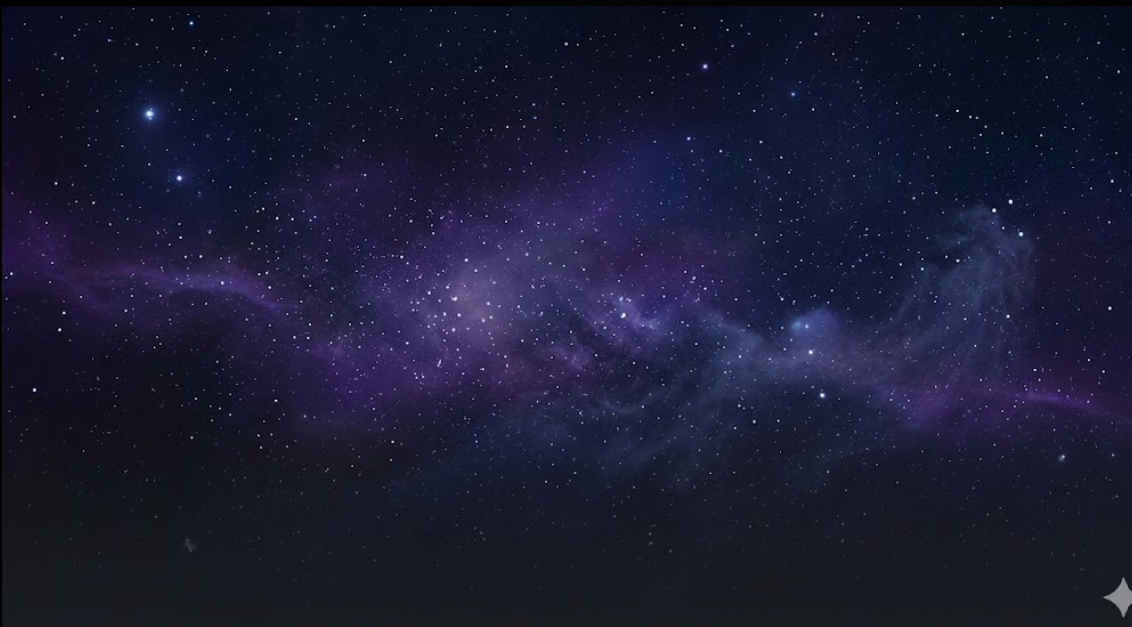
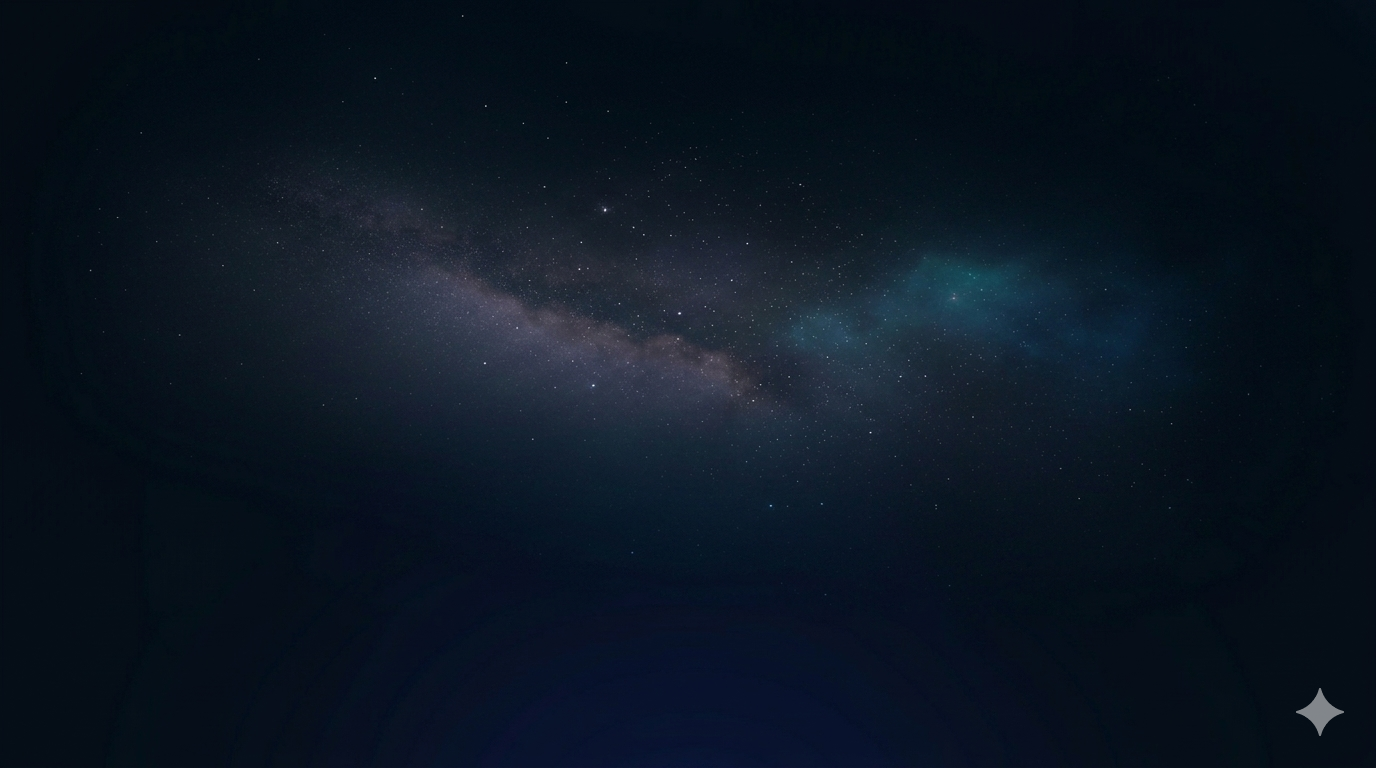
background all good

diff --git a/app/globals.css b/app/globals.css
@@ -9,12 +9,12 @@
     --background: 0 0% 100%;
     --foreground: 222.2 84% 4.9%;
     --site-bg-image: url('/images/bglight.png');
-    --site-bg-size: min(100vw, 1158px) auto;
-    --site-bg-filter: saturate(1.12) contrast(1.06) brightness(1.02);
+    --site-bg-size: min(100vw, 1376px) auto;
+    --site-bg-filter: none;
     --site-bg-overlay:
-      linear-gradient(180deg, hsl(0 0% 100% / 0.32), hsl(210 35% 96% / 0.5)),
-      radial-gradient(circle at 50% 8%, hsl(214 90% 86% / 0.08), transparent 38%),
-      radial-gradient(circle at 50% 10%, hsl(0 0% 100% / 0), hsl(0 0% 100% / 0.08) 72%, hsl(210 35% 94% / 0.36) 100%);
+      linear-gradient(180deg, hsl(0 0% 100% / 0.18), hsl(210 35% 96% / 0.34)),
+      radial-gradient(circle at 50% 8%, hsl(214 90% 86% / 0.04), transparent 38%),
+      radial-gradient(circle at 50% 10%, hsl(0 0% 100% / 0), hsl(0 0% 100% / 0.03) 72%, hsl(210 35% 94% / 0.22) 100%);
     --card: 0 0% 100% / 0.62;
     --card-foreground: 222.2 84% 4.9%;
     --popover: 0 0% 100% / 0.8;
@@ -41,12 +41,12 @@
     --background: 222.2 84% 4.9%;
     --foreground: 210 40% 98%;
     --site-bg-image: url('/images/bgdark.png');
-    --site-bg-size: min(100vw, 1140px) auto;
-    --site-bg-filter: saturate(1.28) contrast(1.12) brightness(1.05);
+    --site-bg-size: min(100vw, 1376px) auto;
+    --site-bg-filter: saturate(1.22) contrast(1.09) brightness(1.03);
     --site-bg-overlay:
-      linear-gradient(180deg, hsl(224 71% 6% / 0.18), hsl(222 84% 5% / 0.5)),
-      radial-gradient(circle at 50% 10%, hsl(197 85% 64% / 0.14), transparent 42%),
-      radial-gradient(circle at 50% 12%, hsl(224 71% 6% / 0), hsl(224 71% 6% / 0.08) 68%, hsl(222 84% 5% / 0.52) 100%);
+      linear-gradient(180deg, hsl(224 71% 6% / 0.14), hsl(222 84% 5% / 0.44)),
+      radial-gradient(circle at 50% 10%, hsl(197 85% 64% / 0.12), transparent 42%),
+      radial-gradient(circle at 50% 12%, hsl(224 71% 6% / 0), hsl(224 71% 6% / 0.06) 68%, hsl(222 84% 5% / 0.46) 100%);
     --card: 222 47% 11% / 0.56;
     --card-foreground: 210 40% 98%;
     --popover: 222 47% 11% / 0.82;
@@ -71,7 +71,7 @@
     --background: 240 21% 15%;
     --foreground: 226 64% 88%;
     --site-bg-image: url('/images/bgdark.png');
-    --site-bg-size: min(100vw, 1140px) auto;
+    --site-bg-size: min(100vw, 1376px) auto;
     --site-bg-filter: saturate(1.22) contrast(1.1) brightness(1.02);
     --site-bg-overlay:
       linear-gradient(180deg, hsl(240 21% 15% / 0.58), hsl(240 21% 15% / 0.84)),
@@ -100,7 +100,7 @@
     --background: 20 10% 13%;
     --foreground: 46 43% 82%;
     --site-bg-image: url('/images/bgdark.png');
-    --site-bg-size: min(100vw, 1140px) auto;
+    --site-bg-size: min(100vw, 1376px) auto;
     --site-bg-filter: saturate(1.22) contrast(1.1) brightness(1.02);
     --site-bg-overlay:
       linear-gradient(180deg, hsl(20 10% 13% / 0.62), hsl(20 10% 13% / 0.86)),
@@ -129,7 +129,7 @@
     --background: 220 13% 18%;
     --foreground: 220 14% 71%;
     --site-bg-image: url('/images/bgdark.png');
-    --site-bg-size: min(100vw, 1140px) auto;
+    --site-bg-size: min(100vw, 1376px) auto;
     --site-bg-filter: saturate(1.22) contrast(1.1) brightness(1.02);
     --site-bg-overlay:
       linear-gradient(180deg, hsl(220 13% 18% / 0.62), hsl(220 13% 18% / 0.86)),
@@ -158,7 +158,7 @@
     --background: 249 22% 12%;
     --foreground: 245 50% 91%;
     --site-bg-image: url('/images/bgdark.png');
-    --site-bg-size: min(100vw, 1140px) auto;
+    --site-bg-size: min(100vw, 1376px) auto;
     --site-bg-filter: saturate(1.22) contrast(1.1) brightness(1.02);
     --site-bg-overlay:
       linear-gradient(180deg, hsl(249 22% 12% / 0.62), hsl(249 22% 12% / 0.86)),
@@ -187,8 +187,8 @@
     --background: 210 33% 98%;
     --foreground: 213 27% 20%;
     --site-bg-image: url('/images/bglight.png');
-    --site-bg-size: min(100vw, 1180px) auto;
-    --site-bg-filter: saturate(1.12) contrast(1.06) brightness(1.02);
+    --site-bg-size: min(100vw, 1376px) auto;
+    --site-bg-filter: none;
     --site-bg-overlay:
       linear-gradient(180deg, hsl(210 33% 98% / 0.8), hsl(210 30% 95% / 0.94)),
       radial-gradient(circle at top, hsl(213 94% 38% / 0.12), transparent 40%);
@@ -216,8 +216,8 @@
     --background: 210 20% 98%;
     --foreground: 215 25% 15%;
     --site-bg-image: url('/images/bglight.png');
-    --site-bg-size: min(100vw, 1180px) auto;
-    --site-bg-filter: saturate(1.12) contrast(1.06) brightness(1.02);
+    --site-bg-size: min(100vw, 1376px) auto;
+    --site-bg-filter: none;
     --site-bg-overlay:
       linear-gradient(180deg, hsl(210 20% 98% / 0.82), hsl(210 22% 95% / 0.95)),
       radial-gradient(circle at top, hsl(215 25% 27% / 0.1), transparent 40%);
@@ -245,7 +245,7 @@
     --background: 210 50% 10%;
     --foreground: 200 50% 90%;
     --site-bg-image: url('/images/bgdark.png');
-    --site-bg-size: min(100vw, 1140px) auto;
+    --site-bg-size: min(100vw, 1376px) auto;
     --site-bg-filter: saturate(1.24) contrast(1.1) brightness(1.04);
     --site-bg-overlay:
       linear-gradient(180deg, hsl(210 50% 10% / 0.58), hsl(210 50% 10% / 0.84)),
@@ -375,15 +375,15 @@
 
 @layer components {
   .site-panel {
-    @apply rounded-2xl border border-border bg-card shadow-[0_18px_48px_rgba(15,23,42,0.10)] backdrop-blur-md;
+    @apply rounded-2xl border border-border bg-card shadow-[0_18px_48px_rgba(15,23,42,0.10)];
   }
 
   .site-panel-strong {
-    @apply rounded-2xl border border-border bg-popover shadow-[0_22px_64px_rgba(15,23,42,0.16)] backdrop-blur-xl;
+    @apply rounded-2xl border border-border bg-popover shadow-[0_22px_64px_rgba(15,23,42,0.16)];
   }
 
   .site-pill {
-    @apply rounded-full border border-border bg-card/90 backdrop-blur-md;
+    @apply rounded-full border border-border bg-card/90;
   }
 
   .site-divider {

diff --git a/components/theme-switcher.tsx b/components/theme-switcher.tsx
@@ -35,7 +35,7 @@ export function ThemeSwitcher() {
     <div ref={ref} className="relative">
       <button
         onClick={() => setOpen((o) => !o)}
-        className="flex items-center gap-2 rounded-md border border-border bg-card/90 px-3 py-2 text-sm font-medium backdrop-blur-md transition-colors hover:bg-accent hover:text-accent-foreground"
+        className="flex items-center gap-2 rounded-md border border-border bg-card/95 px-3 py-2 text-sm font-medium transition-colors hover:bg-accent hover:text-accent-foreground"
         aria-label="Switch theme"
       >
         <Palette className="h-4 w-4" />
@@ -44,7 +44,7 @@ export function ThemeSwitcher() {
       </button>
 
       {open && (
-        <div className="absolute right-0 top-full z-50 mt-2 w-52 overflow-hidden rounded-lg border border-border bg-popover shadow-[0_18px_48px_rgba(15,23,42,0.18)] backdrop-blur-xl">
+        <div className="absolute right-0 top-full z-50 mt-2 w-52 overflow-hidden rounded-lg border border-border bg-popover shadow-[0_18px_48px_rgba(15,23,42,0.18)]">
           {(["default", "dev", "professional"] as const).map((cat) => (
             <div key={cat}>
               <div className="px-3 py-1.5 text-xs font-semibold text-muted-foreground uppercase tracking-wider">

diff --git a/components/portfolio/filter-dropdown.tsx b/components/portfolio/filter-dropdown.tsx
@@ -55,7 +55,7 @@ export function FilterDropdown({ label, options, selected, onChange }: FilterDro
           className={`inline-flex items-center gap-2 rounded-lg border px-3.5 py-2 text-sm font-medium transition-colors ${
             hasSelection
               ? 'border-primary bg-primary/10 text-primary'
-              : 'border-border bg-card/90 text-muted-foreground backdrop-blur-md hover:border-primary/50 hover:text-foreground'
+              : 'border-border bg-card/95 text-muted-foreground hover:border-primary/50 hover:text-foreground'
           }`}
         >
           {hasSelection ? (
@@ -75,7 +75,7 @@ export function FilterDropdown({ label, options, selected, onChange }: FilterDro
         </button>
 
         {open && (
-          <div className="absolute right-0 top-full z-50 mt-1.5 min-w-[220px] rounded-xl border border-border bg-popover shadow-[0_18px_48px_rgba(15,23,42,0.18)] backdrop-blur-xl">
+          <div className="absolute right-0 top-full z-50 mt-1.5 min-w-[220px] rounded-xl border border-border bg-popover shadow-[0_18px_48px_rgba(15,23,42,0.18)]">
             <div className="p-1 max-h-64 overflow-y-auto">
               {options.map((option) => {
                 const isSelected = selected.includes(option)

diff --git a/app/business/pricing/page.tsx b/app/business/pricing/page.tsx
@@ -218,13 +218,13 @@ export default function BusinessPricingPage() {
           </Link>
           <Link
             href="/contact"
-            className="inline-flex items-center rounded-lg border border-border bg-card/90 px-5 py-3 text-sm font-medium text-foreground backdrop-blur-md transition-colors hover:border-primary hover:text-primary"
+            className="inline-flex items-center rounded-lg border border-border bg-card/95 px-5 py-3 text-sm font-medium text-foreground transition-colors hover:border-primary hover:text-primary"
           >
             Contact Me
           </Link>
           <Link
             href="/business"
-            className="inline-flex items-center rounded-lg border border-border bg-card/90 px-5 py-3 text-sm font-medium text-foreground backdrop-blur-md transition-colors hover:border-primary hover:text-primary"
+            className="inline-flex items-center rounded-lg border border-border bg-card/95 px-5 py-3 text-sm font-medium text-foreground transition-colors hover:border-primary hover:text-primary"
           >
             Back to My Business
           </Link>

diff --git a/app/pricing/page.tsx b/app/pricing/page.tsx
@@ -218,13 +218,13 @@ export default function PricingPage() {
           </Link>
           <Link
             href="/contact"
-            className="inline-flex items-center rounded-lg border border-border bg-card/90 px-5 py-3 text-sm font-medium text-foreground backdrop-blur-md transition-colors hover:border-primary hover:text-primary"
+            className="inline-flex items-center rounded-lg border border-border bg-card/95 px-5 py-3 text-sm font-medium text-foreground transition-colors hover:border-primary hover:text-primary"
           >
             Contact Me
           </Link>
           <Link
             href="/business"
-            className="inline-flex items-center rounded-lg border border-border bg-card/90 px-5 py-3 text-sm font-medium text-foreground backdrop-blur-md transition-colors hover:border-primary hover:text-primary"
+            className="inline-flex items-center rounded-lg border border-border bg-card/95 px-5 py-3 text-sm font-medium text-foreground transition-colors hover:border-primary hover:text-primary"
           >
             Back to My Business
           </Link>

diff --git a/components/layout/nav.tsx b/components/layout/nav.tsx
@@ -40,7 +40,7 @@ export function Nav() {
     <header
       className={`fixed top-0 left-0 right-0 z-50 transition-all duration-300 ${
         scrolled
-          ? "border-b border-border bg-popover/80 shadow-[0_10px_40px_rgba(15,23,42,0.14)] backdrop-blur-xl"
+          ? "border-b border-border bg-popover/92 shadow-[0_10px_40px_rgba(15,23,42,0.14)]"
           : "bg-transparent"
       }`}
     >
@@ -99,7 +99,7 @@ export function Nav() {
       </div>
 
       {open && (
-        <div className="flex flex-col gap-4 border-b border-border bg-popover/90 px-6 py-4 backdrop-blur-xl md:hidden">
+        <div className="flex flex-col gap-4 border-b border-border bg-popover/96 px-6 py-4 md:hidden">
           {navLinks.map((link) => (
             <Link
               key={link.label}

diff --git a/components/portfolio/business.tsx b/components/portfolio/business.tsx
@@ -160,7 +160,7 @@ export function BusinessPage({ projects }: { projects: Project[] }) {
             </Link>
             <Link
               href="/contact"
-              className="inline-flex items-center justify-center rounded-lg border border-border bg-card/90 px-5 py-3 text-sm font-medium text-foreground backdrop-blur-md transition-colors hover:border-primary hover:text-primary"
+              className="inline-flex items-center justify-center rounded-lg border border-border bg-card/95 px-5 py-3 text-sm font-medium text-foreground transition-colors hover:border-primary hover:text-primary"
             >
               Start a Project
             </Link>

diff --git a/components/portfolio/neural-network-home.tsx b/components/portfolio/neural-network-home.tsx
@@ -305,9 +305,9 @@ export function NeuralNetworkHome({ onSkip }: { onSkip?: () => void }) {
               backgroundImage: `url('${backgroundImage}')`,
               backgroundPosition: "center 0",
               backgroundRepeat: "no-repeat",
-              backgroundSize: "min(100vw, 1140px) auto",
+              backgroundSize: "min(100vw, 1376px) auto",
               opacity: 1,
-              filter: "saturate(1.28) contrast(1.12) brightness(1.05)",
+              filter: "saturate(1.22) contrast(1.09) brightness(1.03)",
             }}
           />
           <div

diff --git a/components/portfolio/about.tsx b/components/portfolio/about.tsx
@@ -18,7 +18,7 @@ export function About() {
   return (
     <section
       id="about"
-      className="mx-auto max-w-4xl rounded-[2rem] border border-white/10 bg-background/20 px-6 py-10 shadow-[0_20px_80px_rgba(0,0,0,0.18)] backdrop-blur-[2px] sm:px-8 sm:py-12"
+      className="mx-auto max-w-4xl rounded-[2rem] border border-white/10 bg-background/20 px-6 py-10 shadow-[0_20px_80px_rgba(0,0,0,0.18)] sm:px-8 sm:py-12"
     >
       <div className="mb-10">
         <p className="mb-2 font-mono text-sm text-primary">{`>`} about</p>

diff --git a/components/layout/footer.tsx b/components/layout/footer.tsx
@@ -14,7 +14,7 @@ const footerLinks = [
 
 export function Footer() {
   return (
-    <footer className="border-t border-border bg-popover/65 backdrop-blur-xl">
+    <footer className="border-t border-border bg-popover/88">
       <div className="mx-auto flex max-w-6xl flex-col items-center justify-between gap-6 px-6 py-10 md:flex-row">
         <div className="text-center md:text-left">
           <p className="font-mono font-semibold text-foreground">
